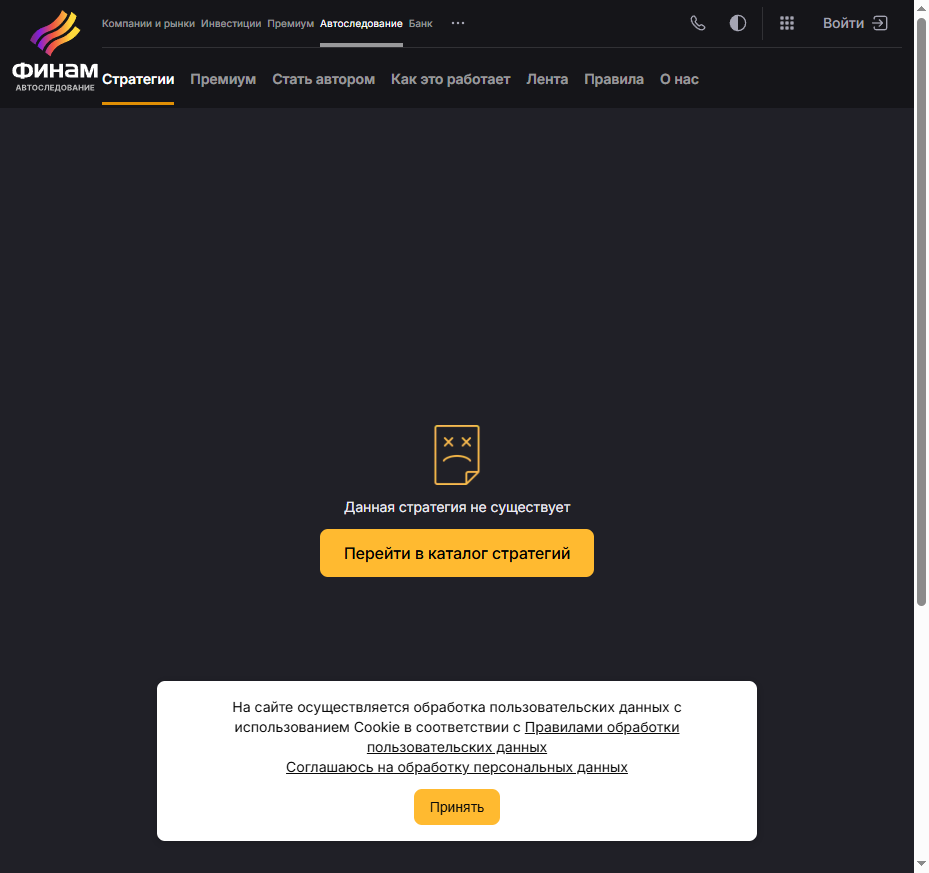
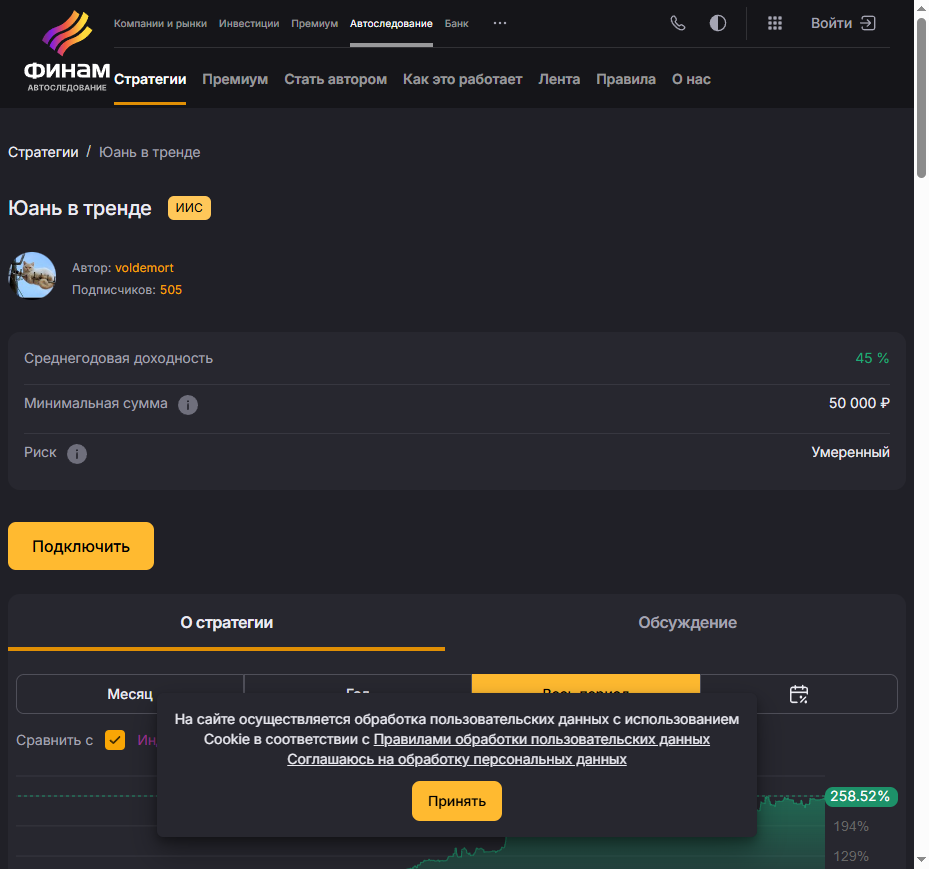
feat: load one concrete strategy

diff --git a/lib/urlutils.py b/lib/urlutils.py
@@ -1,9 +1,13 @@
+import re
+
 from selenium.webdriver.common.by import By
 from selenium.webdriver.support.ui import WebDriverWait
 from selenium.webdriver.support import expected_conditions as EC
 from selenium.common.exceptions import TimeoutException, WebDriverException
 
 XPath_not_found = '//*[@id="app-body"]/div/p'
+DATE_PATTERN = re.compile(r'^\d{2}\.\d{2}\.\d{4}$')
+x_path_start_date = '//*[@id="app-body"]/div/div[3]/div[4]/div/div[5]/p[1]'
 
 
 def check_optional_element_text(driver, xpath=XPath_not_found, expected_text="Текст для проверки", timeout=5):
@@ -22,12 +26,10 @@ def check_optional_element_text(driver, xpath=XPath_not_found, expected_text="Т
     print(f"Попытка найти элемент: {xpath}")
 
     try:
-        # Явное ожидание (Presence)
         element = WebDriverWait(driver, timeout).until(
             EC.presence_of_element_located((By.XPATH, xpath))
         )
 
-        # Элемент найден. Проверяем текст.
         actual_text = element.text.strip().lower()
         print(f"Элемент найден. Ожидаемый текст: '{expected_text}', Фактический текст: '{actual_text}'")
 
@@ -39,82 +41,105 @@ def check_optional_element_text(driver, xpath=XPath_not_found, expected_text="Т
             return True
 
     except TimeoutException:
-        # Элемент не найден в течение установленного времени.
-        # Это считается нормальным исходом согласно условию задачи.
         print(f"Элемент по пути '{xpath}' не был обнаружен. Всё нормально.")
         return True
 
     except Exception as e:
-        # Обработка других возможных ошибок Selenium (кроме Timeout)
         print(f"Произошла непредвиденная ошибка при поиске элемента: {e}")
         return False
 
 
-x_path_start_date = '//*[@id="app-body"]/div/div[3]/div[4]/div/div[5]/p[1]'
+def extract_date_text(element):
+    date_str = (element.get_attribute('value') or element.text or '').strip()
+    if DATE_PATTERN.match(date_str):
+        return date_str
+    return None
 
-def find_start_date_element(driver, xpath=x_path_start_date, timeout=12):
-    """
-    Попытаться найти элемент:
-    1) обычное ожидание presence/visibility в текущем контексте;
-    2) если не найдено — пробуем искать внутри <iframe> (итеративно);
-    3) если всё ещё не найдено — сохраняем скриншот и дамп HTML для отладки и возвращаем None.
-    """
 
-    XPath_not_found='//*[@id="app-body"]/div/p'
-    exists = check_optional_element_text(driver, XPath_not_found, expected_text="данная стратегия не существует",
-                                         timeout=6
-                                         )
+def _find_date_in_elements(elements):
+    for element in elements:
+        date_str = extract_date_text(element)
+        if date_str:
+            return element
+    return None
+
+
+def _search_in_iframes(driver, finder):
+    for iframe in driver.find_elements(By.TAG_NAME, 'iframe'):
+        try:
+            driver.switch_to.frame(iframe)
+            element = finder()
+            if element is not None:
+                return element
+        except WebDriverException:
+            pass
+        finally:
+            driver.switch_to.default_content()
+    return None
+
+
+def _save_debug_artifacts(driver, xpath):
+    try:
+        driver.save_screenshot('start_date_not_found.png')
+    except Exception:
+        pass
+    try:
+        with open('page_dump.html', 'w', encoding='utf-8') as f:
+            f.write(driver.page_source)
+    except Exception:
+        pass
+
+    print('Элемент с датой старта не найден. Последний XPath:', xpath)
+    try:
+        print('URL:', driver.current_url)
+        print('Title:', driver.title)
+    except Exception:
+        pass
+
+
+def find_start_date_element(driver, xpath=x_path_start_date, timeout=20):
+    """
+    Ищет дату старта стратегии на странице comon.ru.
+    Сначала — поле калькулятора доходности, затем блок createdParam, затем старый XPath.
+    """
+    exists = check_optional_element_text(
+        driver,
+        XPath_not_found,
+        expected_text="данная стратегия не существует",
+        timeout=6,
+    )
     if not exists:
         return None
-    try:
-        # сначала обычное явное ожидание (presence или visibility по необходимости)
-        el = WebDriverWait(driver, timeout).until(
-            EC.presence_of_element_located((By.XPATH, xpath))
-        )
-        # при желании можно применять visibility_of_element_located вместо presence_of_element_located
-        return el
-    except TimeoutException:
-        # элемент не найден в текущем документе — попробуем поиск в iframe'ах
-        for iframe in driver.find_elements(By.TAG_NAME, 'iframe'):
-            try:
-                driver.switch_to.frame(iframe)
-                els = driver.find_elements(By.XPATH, xpath)
-                if els:
-                    return els[0]
-            except WebDriverException:
-                # некоторые iframe могут быть недоступны (cross-origin и т.п.)
-                pass
-            finally:
-                driver.switch_to.default_content()
 
-        # для отладки: сохранить скрин и дамп HTML
+    search_steps = [
+        ('profit-calc-date-from-input', lambda: _find_date_in_elements([
+            WebDriverWait(driver, timeout).until(
+                EC.presence_of_element_located((By.ID, 'profit-calc-date-from-input')),
+            ),
+        ])),
+        ('createdParam', lambda: _find_date_in_elements(
+            driver.find_elements(By.XPATH, "//div[contains(@class,'createdParam')]//p"),
+        )),
+        (xpath, lambda: _find_date_in_elements([
+            WebDriverWait(driver, 5).until(
+                EC.presence_of_element_located((By.XPATH, xpath)),
+            ),
+        ])),
+    ]
+
+    for step_name, finder in search_steps:
         try:
-            driver.save_screenshot('start_date_not_found.png')
-        except Exception:
-            pass
-        try:
-            with open('page_dump.html', 'w', encoding='utf-8') as f:
-                f.write(driver.page_source)
-        except Exception:
-            pass
+            element = finder()
+            if element is not None:
+                print('Дата старта найдена через:', step_name, '→', extract_date_text(element))
+                return element
+        except TimeoutException:
+            continue
 
-        # полезная отладочная информация
-        print('Элемент с XPath не найден:', xpath)
-        try:
-            print('URL:', driver.current_url)
-            print('Title:', driver.title)
-        except Exception:
-            pass
+        element = _search_in_iframes(driver, finder)
+        if element is not None:
+            print('Дата старта найдена в iframe через:', step_name, '→', extract_date_text(element))
+            return element
 
-        return None
-
-# # Использование:
-# date_info = find_start_date_element(driver)
-# if date_info is None:
-#     # обработка ситуации — лог, пропуск, повторная попытка и т.д.
-#     print('Не удалось получить date_info')
-# else:
-#     # элемент найден — можно читать текст
-#     start_date_text = date_info.text
-#     print('Start date:', start_date_text)
-
+    _save_debug_artifacts(driver, xpath)
+    return None

diff --git a/load_history.py b/load_history.py
@@ -1,52 +1,62 @@
-from selenium.webdriver.support import expected_conditions as EC
+import argparse
+from datetime import datetime
+
 from selenium import webdriver
-from selenium.webdriver.common.by import By
-from datetime import datetime, timedelta, time
 
-from selenium.webdriver.support.wait import WebDriverWait
-from sqlalchemy import func
-
-from lib.load import set_date, set_date_with_js_events, set_date_keys, set_date_with_tab, get_gate, set_date_with_check, \
-    set_period, get_summ_perc, load_strategy_history
-from lib.save import save_history_record_to_db, create_session
-from lib.utils import extract_percentage
-from models.strategies import History, Strategy
-
-end_date=datetime(2025,11,26)
-
-#strategy_id=2
-#print(f"Максимальное значение datetime для strategy_id=1: {max_datetime_from_db}")
-
-#url="https://www.comon.ru/strategies/115412/"
-
-надо сделать тест
-# Создание экземпляра веб-драйвера Chrome.  Не используем Options, чтобы видеть браузер.
-driver = webdriver.Chrome()
-
-# Запрос на SQLAlchemy ORM
-session=create_session()
-query=session.query(Strategy)
-start_date=datetime.now()
-for strategy_row in query.all():
-    strategy_id=strategy_row.id
-    url=strategy_row.link_text
-    #print(f"ID: {strategy_row.id}, Имя: {strategy_row.name}, Подписчики: {strategy_row.subscribers}, Тип: {strategy_row.kind.name}")
-    if not load_strategy_history(driver, url, session, strategy_id, end_date):
-        print("Пропустили стратегию",strategy_id)
-    print("Прошло времени",datetime.now()-start_date)
-
-# all_strategies = session.query(Strategy).all()
-# for strategy in all_strategies:
-#     print(f"  ID: {strategy.id}, Номер: {strategy.number}, Название: {strategy.name}, "
-#           f"Тип: {strategy.kind.name}, Подписчики: {strategy.subscribers}, "
-#           f"Ссылка: {strategy.link_text}")
-#
-# print("-" * 30)
-# exit(1)
+from lib.load import load_strategy_history
+from lib.save import create_session
+from models.strategies import Strategy
 
 
+def parse_args():
+    parser = argparse.ArgumentParser(
+        description='Загрузка истории портфеля стратегий с comon.ru',
+    )
+    parser.add_argument(
+        '-n', '--number',
+        type=int,
+        help='Номер стратегии (поле number). Без аргумента — загружаются все стратегии',
+    )
+    parser.add_argument(
+        '--end-date',
+        type=lambda s: datetime.strptime(s, '%Y-%m-%d'),
+        default=None,
+        metavar='ГГГГ-ММ-ДД',
+        help='Конечная дата загрузки (по умолчанию — сегодня)',
+    )
+    return parser.parse_args()
 
 
+def main():
+    args = parse_args()
+    end_date = args.end_date or datetime.now()
+    session = create_session()
+
+    if args.number is not None:
+        strategy = session.query(Strategy).filter(Strategy.number == args.number).first()
+        if strategy is None:
+            print(f'Стратегия с номером {args.number} не найдена в базе.')
+            return
+        strategies = [strategy]
+        print(f'Загрузка истории для стратегии №{strategy.number}: {strategy.name}')
+    else:
+        strategies = session.query(Strategy).all()
+        print(f'Загрузка истории для {len(strategies)} стратегий')
+
+    print(f'Конечная дата загрузки: {end_date:%d.%m.%Y}')
+
+    driver = webdriver.Chrome()
+    start_date = datetime.now()
+    try:
+        for strategy_row in strategies:
+            if not load_strategy_history(
+                driver, strategy_row.link_text, session, strategy_row.id, end_date,
+            ):
+                print('Пропустили стратегию', strategy_row.id, f'(номер {strategy_row.number})')
+            print('Прошло времени', datetime.now() - start_date)
+    finally:
+        driver.quit()
 
 
-
+if __name__ == '__main__':
+    main()

diff --git a/lib/load.py b/lib/load.py
@@ -10,7 +10,7 @@ from datetime import datetime, timedelta, time
 
 from lib.save import save_history_record_to_db
 from lib.strategy import StrategyInfo
-from lib.urlutils import find_start_date_element
+from lib.urlutils import extract_date_text, find_start_date_element
 from lib.utils import extract_percentage
 from models.strategies import History
 
@@ -254,30 +254,40 @@ def get_summ_perc(driver,last_perc):
     return perc,text.replace("₽", 'руб.')
 
 def load_strategy_history(driver, url, session, strategy_id, end_date_today):
-    max_datetime_from_db = session.query(func.max(History.datetime)).filter(History.strategy_id == strategy_id).scalar()
-    if max_datetime_from_db is None:
-        max_datetime_from_db = datetime(1970, 1, 1)
+    end_date_today = datetime.combine(end_date_today.date(), time.min)
+    last_in_db = session.query(func.max(History.datetime)).filter(
+        History.strategy_id == strategy_id,
+    ).scalar()
+    if last_in_db is None:
+        next_date = datetime(1970, 1, 1)
     else:
-        max_datetime_from_db=max_datetime_from_db+ timedelta(days=1)
-    max_datetime_from_db = datetime.combine(max_datetime_from_db, time.min)
-    if max_datetime_from_db+ timedelta(days=1)>=end_date_today:
+        next_date = datetime.combine(last_in_db + timedelta(days=1), time.min)
+    if next_date + timedelta(days=1) >= end_date_today:
+        if last_in_db is None:
+            print('Пропуск: нечего загружать до', end_date_today.strftime('%d.%m.%Y'))
+        else:
+            print(
+                f'История актуальна: последняя запись в БД {last_in_db:%d.%m.%Y}, '
+                f'конечная дата загрузки {end_date_today:%d.%m.%Y}',
+            )
         return False
 
-
-    print(f"Максимальное значение datetime для strategy_id={strategy_id}: {max_datetime_from_db}")
+    print(f"Загрузка с {next_date:%d.%m.%Y} для strategy_id={strategy_id}")
 
     x_locator_beg = '//*[@id="profit-calc-date-from-input"]'
-    x_locator_end = '// *[ @ id = "profit-calc-date-to-input"]'
+    x_locator_end = '//*[@id="profit-calc-date-to-input"]'
 
     # Переход по указанному URL
     driver.get(url)
 
-    x_path_start_date = '//*[@id="app-body"]/div/div[3]/div[4]/div/div[5]/p[1]'
-    #date_info = driver.find_element(By.XPATH, x_path_start_date)
     date_info = find_start_date_element(driver)
     if date_info is None:
+        print('Пропуск: не удалось найти дату старта стратегии на странице', url)
         return False
-    date_str = date_info.text
+    date_str = extract_date_text(date_info)
+    if date_str is None:
+        print('Пропуск: не удалось прочитать дату старта стратегии на странице', url)
+        return False
     date_format = "%d.%m.%Y"
     try:
         date_object = datetime.strptime(date_str, date_format)
@@ -286,8 +296,8 @@ def load_strategy_history(driver, url, session, strategy_id, end_date_today):
         exit(1)
 
     begin_date = date_object
-    if max_datetime_from_db > begin_date:
-        begin_date = max_datetime_from_db
+    if next_date > begin_date:
+        begin_date = next_date
     end_date = datetime.now()
     if end_date>end_date_today:
         end_date=end_date_today
